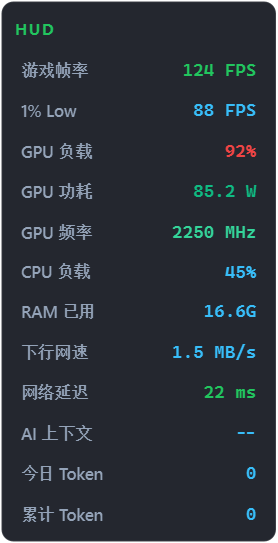
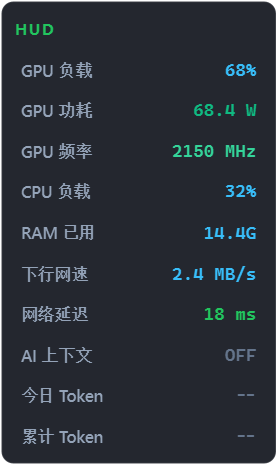
docs: regenerate all screenshots and update user guide to match UI redesign

diff --git a/tests/generate_screenshots.py b/tests/generate_screenshots.py
@@ -1,0 +1,224 @@
+import sys
+import os
+import math
+import time
+
+from PyQt6.QtWidgets import QApplication
+from PyQt6.QtCore import Qt
+
+sys.path.insert(0, os.path.abspath(os.path.join(os.path.dirname(__file__), "..")))
+
+from src.collector import MetricData
+from src.antigravity_collector import AntigravityMetrics
+from src.floating_bar import FloatingBar, HUDMode
+from src.dashboard import DashboardWindow
+
+
+def generate():
+    app = QApplication.instance() or QApplication(sys.argv)
+    out_dir = os.path.abspath(os.path.join(os.path.dirname(__file__), "..", "assets", "screenshots"))
+    os.makedirs(out_dir, exist_ok=True)
+
+    # 1. 模拟平滑逼真的 60 秒历史波形
+    history_len = 60
+    hist_cpu = [25.0 + 15.0 * math.sin(i * 0.15) + (i % 5) for i in range(history_len)]
+    hist_gpu = [55.0 + 20.0 * math.cos(i * 0.12) + (i % 7) for i in range(history_len)]
+    hist_power = [60.0 + 18.0 * math.sin(i * 0.18) for i in range(history_len)]
+    hist_net = [1200.0 + 800.0 * math.sin(i * 0.2) + 300.0 * (i % 3) for i in range(history_len)]
+
+    mock_hw = MetricData(
+        cpu_name="Intel(R) Core(TM) Ultra 5 125H",
+        cpu_percent=32.4,
+        cpu_freq_mhz=3600.0,
+        cpu_physical_cores=14,
+        cpu_logical_cores=18,
+        cpu_cores=[
+            45.0, 52.0, 68.0, 41.0,
+            55.0, 62.0, 38.0, 48.0,
+            22.0, 18.0, 25.0, 20.0,
+            19.0, 24.0, 16.0, 21.0,
+            15.0, 18.0
+        ],
+        ram_percent=45.6,
+        ram_used_gb=14.4,
+        ram_total_gb=31.6,
+        ram_committed_gb=18.5,
+        ram_commit_total_gb=33.6,
+        ram_commit_percent=55.0,
+        gpu_available=True,
+        gpu_name="NVIDIA GeForce RTX 4050 Laptop GPU",
+        gpu_percent=68.0,
+        gpu_clock_core_mhz=2150,
+        gpu_clock_mem_mhz=8000,
+        gpu_power_w=68.4,
+        gpu_power_limit_w=95.0,
+        gpu_pstate="P0",
+        gpu_temp=58,
+        gpu_mem_used_mb=2800.0,
+        gpu_mem_total_mb=6141.0,
+        gpu_mem_percent=45.6,
+        net_recv_speed=2.4 * 1024 * 1024,
+        net_sent_speed=180.0 * 1024,
+        net_recv_str="2.4 MB/s",
+        net_sent_str="180 KB/s",
+        net_ping_ms=18.0,
+        disk_read_str="12.5 MB/s",
+        disk_write_str="4.8 MB/s",
+        disks=[
+            {'mount': 'C:\\', 'used_gb': 330, 'total_gb': 950, 'percent': 34.7},
+            {'mount': 'D:\\', 'used_gb': 620, 'total_gb': 950, 'percent': 65.3}
+        ],
+        history_cpu=hist_cpu,
+        history_gpu=hist_gpu,
+        history_power=hist_power,
+        history_net_down=hist_net,
+        top_processes=[
+            {'pid': 14208, 'name': 'chrome.exe', 'cpu_percent': 14.5, 'mem_mb': 2450.0},
+            {'pid': 28560, 'name': 'Antigravity.exe', 'cpu_percent': 8.2, 'mem_mb': 820.0},
+            {'pid': 9824, 'name': 'Code.exe', 'cpu_percent': 5.1, 'mem_mb': 1120.0},
+            {'pid': 44720, 'name': 'explorer.exe', 'cpu_percent': 1.8, 'mem_mb': 410.0},
+            {'pid': 38328, 'name': 'dwm.exe', 'cpu_percent': 1.2, 'mem_mb': 375.0}
+        ]
+    )
+
+    mock_agy = AntigravityMetrics(
+        is_running=True,
+        active_conversation_id="f21a740c-5ba7-4c57-9990-c1d92e825967",
+        active_title="开发Antigravity用量监控软件",
+        step_count=135,
+        context_tokens=78900,
+        context_limit=1048576,
+        context_percent=7.5,
+        user_tokens=1200,
+        model_tokens=6500,
+        thinking_tokens=5200,
+        tool_tokens=50200,
+        base_system_tokens=15800,
+        last_turn_input=180,
+        last_turn_output=420,
+        last_turn_total=600,
+        today_tokens=680000,
+        total_tokens=1850000,
+        today_cost_usd=0.92,
+        total_cost_usd=2.50,
+        total_conversations=88,
+        agent_status="待机就绪",
+        status_color="#22c55e",
+        model_breakdown={
+            "Gemini 3.8 Flash (High)": {"cost_usd": 1.92, "count": 65, "tokens": 1420000},
+            "Claude 3.5 Sonnet": {"cost_usd": 1.68, "count": 15, "tokens": 280000},
+            "GPT-4o": {"cost_usd": 0.75, "count": 8, "tokens": 150000}
+        },
+        recent_conversations=[
+            {"title": "开发Antigravity用量监控软件", "tokens": 78900, "mtime": "09-12 09:40"},
+            {"title": "优化硬件采样引擎与波形走势", "tokens": 125400, "mtime": "09-12 08:30"},
+            {"title": "实现极简微型徽章与HUD穿透模式", "tokens": 64200, "mtime": "09-11 22:15"},
+            {"title": "重构系统托盘与内存释放工具", "tokens": 45800, "mtime": "09-11 20:05"},
+            {"title": "设计NVML独立显卡驱动直读模块", "tokens": 92300, "mtime": "09-11 18:40"}
+        ]
+    )
+
+    bar = FloatingBar()
+    bar.show()
+
+    # 1. 横向胶囊栏 - 硬件监控态
+    bar.set_mode(HUDMode.HORIZONTAL)
+    bar.update_metrics(mock_hw)
+    bar.update_antigravity_metrics(AntigravityMetrics(is_running=False))
+    app.processEvents()
+    time.sleep(0.05)
+    p_h = os.path.join(out_dir, "hud_horizontal.png")
+    bar.grab().save(p_h)
+    print(f"✅ 保存: {p_h}")
+
+    # 2. 横向胶囊栏 - AI 活跃态
+    bar.update_antigravity_metrics(mock_agy)
+    app.processEvents()
+    time.sleep(0.05)
+    p_h_ai = os.path.join(out_dir, "hud_horizontal_ai.png")
+    bar.grab().save(p_h_ai)
+    print(f"✅ 保存: {p_h_ai}")
+
+    # 3. 垂直侧边栏 - 硬件监控态
+    bar.set_mode(HUDMode.VERTICAL)
+    bar.update_metrics(mock_hw)
+    bar.update_antigravity_metrics(AntigravityMetrics(is_running=False))
+    app.processEvents()
+    time.sleep(0.05)
+    p_v = os.path.join(out_dir, "hud_vertical.png")
+    bar.grab().save(p_v)
+    print(f"✅ 保存: {p_v}")
+
+    # 4. 垂直侧边栏 - AI 活跃态
+    bar.update_antigravity_metrics(mock_agy)
+    app.processEvents()
+    time.sleep(0.05)
+    p_v_ai = os.path.join(out_dir, "hud_vertical_ai.png")
+    bar.grab().save(p_v_ai)
+    print(f"✅ 保存: {p_v_ai}")
+
+    # 5. 极简微型徽章 - 硬件监控态
+    bar.set_mode(HUDMode.MINI)
+    bar.update_metrics(mock_hw)
+    bar.update_antigravity_metrics(AntigravityMetrics(is_running=False))
+    app.processEvents()
+    time.sleep(0.05)
+    p_m = os.path.join(out_dir, "hud_mini.png")
+    bar.grab().save(p_m)
+    print(f"✅ 保存: {p_m}")
+
+    # 6. 极简微型徽章 - AI 活跃态
+    bar.update_antigravity_metrics(mock_agy)
+    app.processEvents()
+    time.sleep(0.05)
+    p_m_ai = os.path.join(out_dir, "hud_mini_ai.png")
+    bar.grab().save(p_m_ai)
+    print(f"✅ 保存: {p_m_ai}")
+
+    bar.close()
+
+    # 7. 专业性能中枢仪表盘 - 4 大面板
+    dash = DashboardWindow()
+    dash.show()
+    dash.update_metrics(mock_hw)
+    dash.update_antigravity_metrics(mock_agy)
+
+    # Tab 0: 曲线走势 (Curves)
+    dash.tabs.setCurrentIndex(0)
+    app.processEvents()
+    time.sleep(0.05)
+    p_c = os.path.join(out_dir, "dashboard_curves.png")
+    dash.grab().save(p_c)
+    print(f"✅ 保存: {p_c}")
+
+    # Tab 1: 硬件全景 (Hardware)
+    dash.tabs.setCurrentIndex(1)
+    app.processEvents()
+    time.sleep(0.05)
+    p_hw = os.path.join(out_dir, "dashboard_hardware.png")
+    dash.grab().save(p_hw)
+    print(f"✅ 保存: {p_hw}")
+
+    # Tab 2: 进程追踪 (Processes)
+    dash.tabs.setCurrentIndex(2)
+    app.processEvents()
+    time.sleep(0.05)
+    p_pr = os.path.join(out_dir, "dashboard_processes.png")
+    dash.grab().save(p_pr)
+    print(f"✅ 保存: {p_pr}")
+
+    # Tab 3: Antigravity AI 面板
+    dash.tabs.setCurrentIndex(3)
+    app.processEvents()
+    time.sleep(0.05)
+    p_agy = os.path.join(out_dir, "dashboard_antigravity.png")
+    dash.grab().save(p_agy)
+    print(f"✅ 保存: {p_agy}")
+
+    dash.close()
+    app.quit()
+    print("=== 全部 10 张高清截图重新生成完毕 ===")
+
+
+if __name__ == "__main__":
+    generate()
